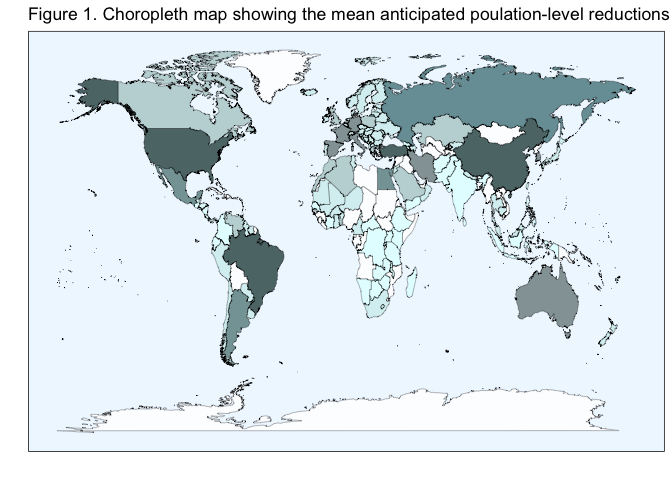
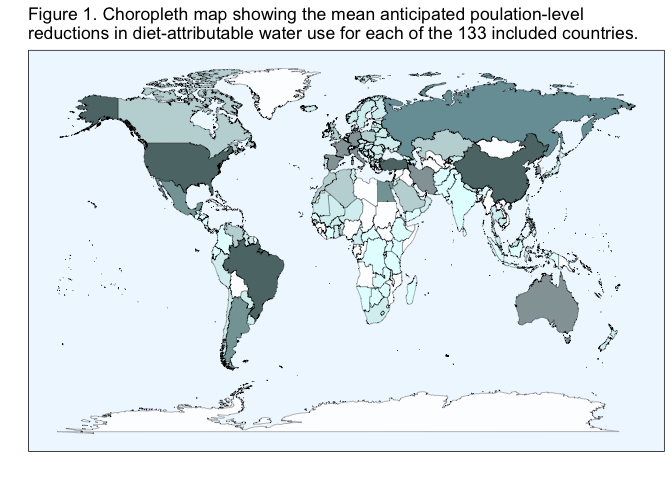
reformatted plot titles using \n breaks

Changed region(s): [[0.0312, 0.0, 1.0, 0.9062]]

diff --git a/markdowns/figure-script.md b/markdowns/figure-script.md
@@ -265,7 +265,7 @@ ggplot(world_map2, aes(x=long,y=lat,group=group,fill=country)) +
   xlab(" ") + 
   ylab(" ") + 
   guides(fill="none") +
-  ggtitle("Figure 1. Choropleth map showing the mean anticipated poulation-level reductions in diet-attributable water use for each of the 133 included countries.") +
+  ggtitle("Figure 1. Choropleth map showing the mean anticipated poulation-level \nreductions in diet-attributable water use for each of the 133 included countries.") +
   theme(panel.background=element_rect(fill="aliceblue"),panel.border=element_rect(fill=NA),axis.ticks=element_blank(),axis.text=element_blank(),panel.grid=element_blank())
 ```
 
@@ -280,7 +280,7 @@ ggplot(world_map2, aes(x=long,y=lat,group=group,fill=country)) +
     xlab(" ") + 
     ylab(" ") + 
     guides(fill="none") +
-    ggtitle("Figure 2. Choropleth map showing the mean anticipated country-level reductions in diet-attributable emissions for each of the 133 included countries.") +
+    ggtitle("Figure 2. Choropleth map showing the mean anticipated country-level \nreductions in diet-attributable emissions for each of the 133 included countries.") +
     theme(panel.background=element_rect(fill="aliceblue"),panel.border=element_rect(fill=NA),axis.ticks=element_blank(),axis.text=element_blank(),panel.grid=element_blank())
 ```
 
